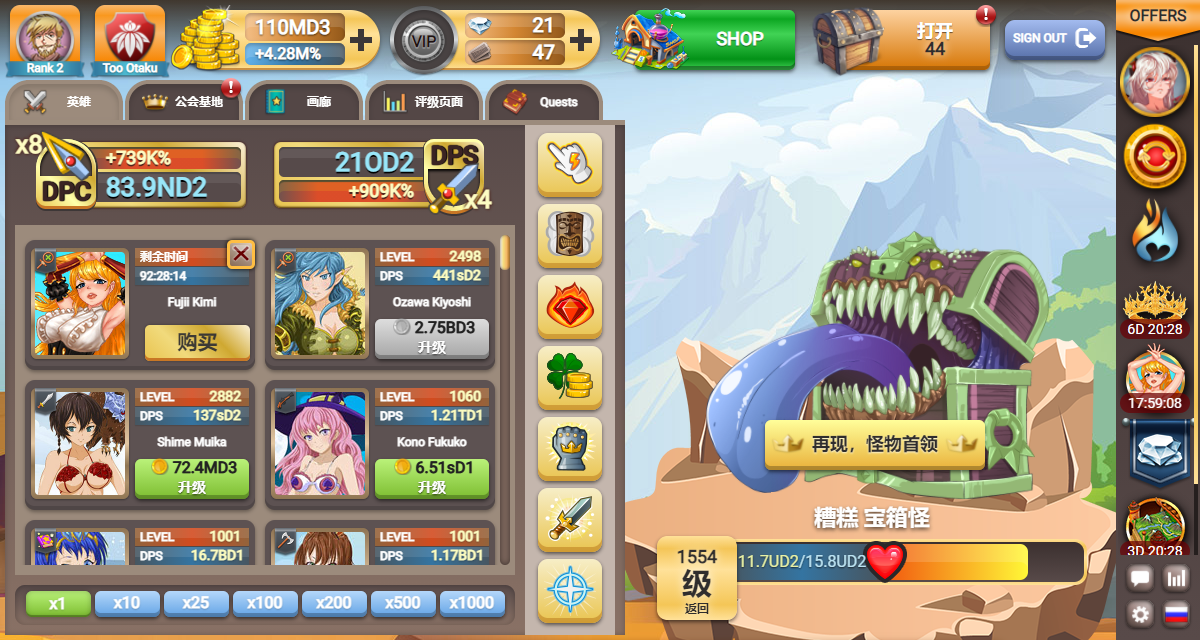
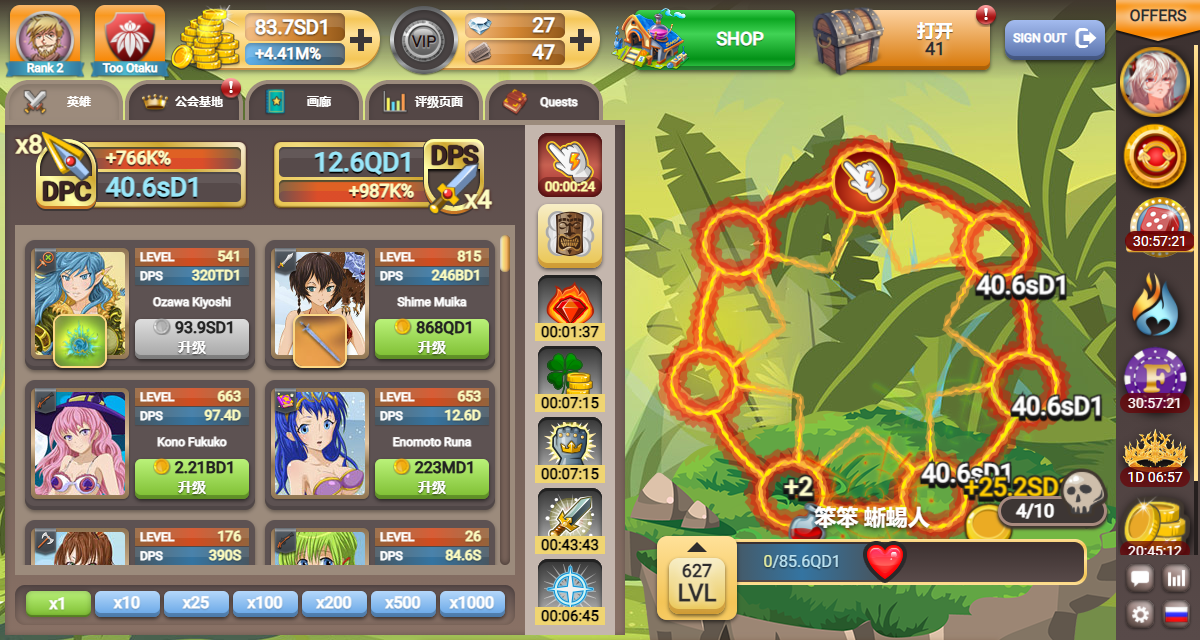
aaa

diff --git a/faptitans_script/auto_reborn3.py b/faptitans_script/auto_reborn3.py
@@ -1,7 +1,11 @@
 # encoding=utf-8
 
 import time
+import datetime
 import pyautogui
+
+# 关闭安全模式
+pyautogui.FAILSAFE
 
 # =====坐标=====
 # 基准xy(偏移量 )
@@ -22,6 +26,9 @@ hero_top02_xy = (hero_base_xy[0] + hero_offset_x, hero_base_xy[1])
 hero_top03_xy = (hero_base_xy[0], hero_base_xy[1] + hero_offset_y)
 hero_top04_xy = (hero_base_xy[0] + hero_offset_x, hero_base_xy[1] + hero_offset_y)
 hero_list = [hero_top01_xy, hero_top02_xy, hero_top03_xy, hero_top04_xy]
+
+# 再现boss
+boss_xy = (858, 442)
 
 # 技能坐标
 skill_base_xy = (545, 140)
@@ -108,33 +115,50 @@ def handle_shade_cover():
 def handle_skill():
     img = get_img()
     skill01_ok = img_position_match_color(img, skill01_xy, skill_ok_color)
-    skill07_ok = img_position_match_color(img, skill07_xy, skill_ok_color)
+    skill04_ok = img_position_match_color(img, skill04_xy, skill_ok_color)
     skill_xy_list = []
-    if skill01_ok and not skill07_ok:
+    if skill01_ok and not skill04_ok:
         # 点技能1
         skill_xy_list = [skill01_xy]
-    elif skill01_ok and skill07_ok:
+    elif skill01_ok and skill04_ok:
         # 点技能2,3,4,5,6,7,1
-        skill_xy_list = [skill02_xy, skill03_xy, skill04_xy, skill05_xy, skill06_xy, skill07_xy, skill01_xy]
+        skill_xy_list = [boss_xy, skill02_xy, skill03_xy, skill04_xy, skill05_xy, skill06_xy, skill07_xy, skill01_xy]
+
+    # 执行操作
     for skill_xy in skill_xy_list:
         click_xy = get_click_xy(skill_xy)
         click_xy = (click_xy[0] + 10, click_xy[1] + 10)
-        pyautogui.click(click_xy)
+        pyautogui.click(click_xy, duration=0.1)
 
 
 # 升级英雄
-def hero_level_up():
+def hero_level_up1():
+    # 依次判断四个英雄是否可以购买或者升级
+    max_times = 10
+    while max_times > 0:
+        max_times -= 1
+        img = get_img()
+        for hero_xy in hero_list:
+            if img_position_match_color(img, hero_xy, hero_ok_color):
+                click_xy = get_click_xy(hero_xy)
+                pyautogui.click(click_xy)
+                time.sleep(1.2)
+                break
+
+
+# 升级英雄
+def play_game():
     # 如果有遮罩层,先处理遮罩层
     # handle_shade_cover()
-    # 依次判断四个英雄是否可以购买或者升级
-    for hero_xy in hero_list:
-        if img_position_match_color(get_img(), hero_xy, hero_ok_color):
-            click_xy = get_click_xy(hero_xy)
-            pyautogui.click(click_xy)
-    # 休眠两秒,等待按钮颜色恢复正常
-    time.sleep(2)
+    # 使用技能
+    handle_skill()
+    # 英雄升级
+    hero_level_up1()
 
 
 if __name__ == '__main__':
     pyautogui.screenshot('screen.png', img_region)
-    handle_skill()
+    while True:
+        play_game()
+        print(datetime.datetime.now())
+        time.sleep(10)
